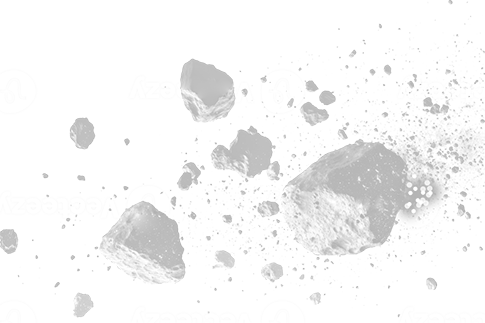
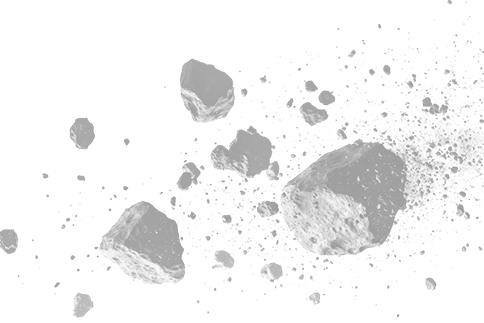
deploy: ypshen17/ypshen17-site-src@a1fc4cde936b20646da295234480ed2f93dab2a8

diff --git a/visions/03-inbetween/index.html b/visions/03-inbetween/index.html
@@ -18,12 +18,12 @@
 <meta property="og:site_name" content="Yipeng Shen" />
 <meta property="og:image" content="https://ypshen17.github.io/assets/visions/3.jpg" />
 <meta property="og:type" content="article" />
-<meta property="article:published_time" content="2025-09-19T13:30:41+00:00" />
+<meta property="article:published_time" content="2025-09-19T14:13:42+00:00" />
 <meta name="twitter:card" content="summary_large_image" />
 <meta property="twitter:image" content="https://ypshen17.github.io/assets/visions/3.jpg" />
 <meta property="twitter:title" content="The Spaces Between" />
 <script type="application/ld+json">
-{"@context":"https://schema.org","@type":"BlogPosting","dateModified":"2025-09-19T13:30:41+00:00","datePublished":"2025-09-19T13:30:41+00:00","description":"Urban spaces are often defined by what they contain. Buildings, roads, streets, and parks create a visible boundary between life and design. But what if we embraced the in-between? The spaces left unoccupied, the fragments of city design that remain undefined — these are the true potential spaces of the future. The gaps between buildings and roads will become the places of belonging, not bound by design but shaped by experience. The spaces between are not voids, but places of endless possibility. They are the spaces where sound meets thought, where humanity meets architecture. They will transform into interactive nodes, where individuals and communities can shape their surroundings, guided by their sensory experiences rather than rigid, predefined boundaries. Could the neglected margins of urban spaces hold the keys to inclusive design? These spaces may be the future heartbeats of a city that no longer divides, but embraces the unbuilt.","headline":"The Spaces Between","image":"https://ypshen17.github.io/assets/visions/3.jpg","mainEntityOfPage":{"@type":"WebPage","@id":"https://ypshen17.github.io/visions/03-inbetween/"},"url":"https://ypshen17.github.io/visions/03-inbetween/"}</script>
+{"@context":"https://schema.org","@type":"BlogPosting","dateModified":"2025-09-19T14:13:42+00:00","datePublished":"2025-09-19T14:13:42+00:00","description":"Urban spaces are often defined by what they contain. Buildings, roads, streets, and parks create a visible boundary between life and design. But what if we embraced the in-between? The spaces left unoccupied, the fragments of city design that remain undefined — these are the true potential spaces of the future. The gaps between buildings and roads will become the places of belonging, not bound by design but shaped by experience. The spaces between are not voids, but places of endless possibility. They are the spaces where sound meets thought, where humanity meets architecture. They will transform into interactive nodes, where individuals and communities can shape their surroundings, guided by their sensory experiences rather than rigid, predefined boundaries. Could the neglected margins of urban spaces hold the keys to inclusive design? These spaces may be the future heartbeats of a city that no longer divides, but embraces the unbuilt.","headline":"The Spaces Between","image":"https://ypshen17.github.io/assets/visions/3.jpg","mainEntityOfPage":{"@type":"WebPage","@id":"https://ypshen17.github.io/visions/03-inbetween/"},"url":"https://ypshen17.github.io/visions/03-inbetween/"}</script>
 <!-- End Jekyll SEO tag -->
 
 

diff --git a/visions/05-movement/index.html b/visions/05-movement/index.html
@@ -18,12 +18,12 @@
 <meta property="og:site_name" content="Yipeng Shen" />
 <meta property="og:image" content="https://ypshen17.github.io/assets/visions/5.jpg" />
 <meta property="og:type" content="article" />
-<meta property="article:published_time" content="2025-09-19T13:30:41+00:00" />
+<meta property="article:published_time" content="2025-09-19T14:13:42+00:00" />
 <meta name="twitter:card" content="summary_large_image" />
 <meta property="twitter:image" content="https://ypshen17.github.io/assets/visions/5.jpg" />
 <meta property="twitter:title" content="The Tides of Movement" />
 <script type="application/ld+json">
-{"@context":"https://schema.org","@type":"BlogPosting","dateModified":"2025-09-19T13:30:41+00:00","datePublished":"2025-09-19T13:30:41+00:00","description":"The city is not a static entity, but a dynamic force — flowing, moving, evolving. Human movement is the lifeblood of the city, but what if the city could move with us? What if urban spaces could adapt in real time, shifting with the rhythm of pedestrian, vehicular, and social flows? This vision imagines a liquid city, where spaces expand and contract depending on human needs, where streets breathe in harmony with the ebb and flow of life. Through sonic interaction, visual mapping, and adaptive architecture, the city will be able to sense and respond to its people, transforming itself to meet their needs. The tides of movement will be the new metric for urban design, as cities shift with their users, constantly reconfiguring to stay alive. How can we design cities that are alive, that move with us, rather than against us? The future city will not just house us, but flow with us, constantly adapting to the rhythm of life.","headline":"The Tides of Movement","image":"https://ypshen17.github.io/assets/visions/5.jpg","mainEntityOfPage":{"@type":"WebPage","@id":"https://ypshen17.github.io/visions/05-movement/"},"url":"https://ypshen17.github.io/visions/05-movement/"}</script>
+{"@context":"https://schema.org","@type":"BlogPosting","dateModified":"2025-09-19T14:13:42+00:00","datePublished":"2025-09-19T14:13:42+00:00","description":"The city is not a static entity, but a dynamic force — flowing, moving, evolving. Human movement is the lifeblood of the city, but what if the city could move with us? What if urban spaces could adapt in real time, shifting with the rhythm of pedestrian, vehicular, and social flows? This vision imagines a liquid city, where spaces expand and contract depending on human needs, where streets breathe in harmony with the ebb and flow of life. Through sonic interaction, visual mapping, and adaptive architecture, the city will be able to sense and respond to its people, transforming itself to meet their needs. The tides of movement will be the new metric for urban design, as cities shift with their users, constantly reconfiguring to stay alive. How can we design cities that are alive, that move with us, rather than against us? The future city will not just house us, but flow with us, constantly adapting to the rhythm of life.","headline":"The Tides of Movement","image":"https://ypshen17.github.io/assets/visions/5.jpg","mainEntityOfPage":{"@type":"WebPage","@id":"https://ypshen17.github.io/visions/05-movement/"},"url":"https://ypshen17.github.io/visions/05-movement/"}</script>
 <!-- End Jekyll SEO tag -->
 
 

diff --git a/visions/02-ground/index.html b/visions/02-ground/index.html
@@ -18,12 +18,12 @@
 <meta property="og:site_name" content="Yipeng Shen" />
 <meta property="og:image" content="https://ypshen17.github.io/assets/visions/2.jpg" />
 <meta property="og:type" content="article" />
-<meta property="article:published_time" content="2025-09-19T13:30:41+00:00" />
+<meta property="article:published_time" content="2025-09-19T14:13:42+00:00" />
 <meta name="twitter:card" content="summary_large_image" />
 <meta property="twitter:image" content="https://ypshen17.github.io/assets/visions/2.jpg" />
 <meta property="twitter:title" content="The Echoes of Silence" />
 <script type="application/ld+json">
-{"@context":"https://schema.org","@type":"BlogPosting","dateModified":"2025-09-19T13:30:41+00:00","datePublished":"2025-09-19T13:30:41+00:00","description":"The ground beneath our feet is more than just earth. It is a repository of stories, an echo of centuries of forgotten lives. As the city grows taller, its roots dig deeper, not into concrete foundations, but into the heartbeats of the land. To design the future of urban spaces is to reimagine the verticality of life — not upward, but downward. This vision seeks a reversal: instead of rising towards the sky, we dig into the depths of our urban environments. Subterranean worlds will be reconnected to the living above. Underground spaces, woven with natural and cultural histories, will shape the future cities we build. Soundscapes will emanate from the ground up — a reminder that the city has a soul buried within it. What if the earth beneath the city could speak? What if the city, instead of rising, listened? In this reimagined future, urbanism will grow downward and inward — where history is not lost, but retrieved.","headline":"The Echoes of Silence","image":"https://ypshen17.github.io/assets/visions/2.jpg","mainEntityOfPage":{"@type":"WebPage","@id":"https://ypshen17.github.io/visions/02-ground/"},"url":"https://ypshen17.github.io/visions/02-ground/"}</script>
+{"@context":"https://schema.org","@type":"BlogPosting","dateModified":"2025-09-19T14:13:42+00:00","datePublished":"2025-09-19T14:13:42+00:00","description":"The ground beneath our feet is more than just earth. It is a repository of stories, an echo of centuries of forgotten lives. As the city grows taller, its roots dig deeper, not into concrete foundations, but into the heartbeats of the land. To design the future of urban spaces is to reimagine the verticality of life — not upward, but downward. This vision seeks a reversal: instead of rising towards the sky, we dig into the depths of our urban environments. Subterranean worlds will be reconnected to the living above. Underground spaces, woven with natural and cultural histories, will shape the future cities we build. Soundscapes will emanate from the ground up — a reminder that the city has a soul buried within it. What if the earth beneath the city could speak? What if the city, instead of rising, listened? In this reimagined future, urbanism will grow downward and inward — where history is not lost, but retrieved.","headline":"The Echoes of Silence","image":"https://ypshen17.github.io/assets/visions/2.jpg","mainEntityOfPage":{"@type":"WebPage","@id":"https://ypshen17.github.io/visions/02-ground/"},"url":"https://ypshen17.github.io/visions/02-ground/"}</script>
 <!-- End Jekyll SEO tag -->
 
 

diff --git a/visions/04-memory/index.html b/visions/04-memory/index.html
@@ -18,12 +18,12 @@
 <meta property="og:site_name" content="Yipeng Shen" />
 <meta property="og:image" content="https://ypshen17.github.io/assets/visions/4.jpg" />
 <meta property="og:type" content="article" />
-<meta property="article:published_time" content="2025-09-19T13:30:41+00:00" />
+<meta property="article:published_time" content="2025-09-19T14:13:42+00:00" />
 <meta name="twitter:card" content="summary_large_image" />
 <meta property="twitter:image" content="https://ypshen17.github.io/assets/visions/4.jpg" />
 <meta property="twitter:title" content="The Sound of Memory" />
 <script type="application/ld+json">
-{"@context":"https://schema.org","@type":"BlogPosting","dateModified":"2025-09-19T13:30:41+00:00","datePublished":"2025-09-19T13:30:41+00:00","description":"Every city has a history that cannot be seen — only heard. The urban soundscape carries the memories of its people — whispered conversations, the clatter of construction, the distant echoes of a long-gone past. But in the modern city, we have erased much of this sound. The noise of progress has drowned out the voices of memory. In the future, cities will remember through sound. Each public space will be designed to hold sonic memories, where the past reverberates through the urban landscape. Sound libraries, archives of the forgotten, will fill the air with the voices of history, ensuring that the urban narrative is felt, not just seen. Sound-design tools will bring a future that listens. How does a city remember? What does a city speak, if its history is lost? In the sound of memory, the city will find its voice again — not just in visual spaces, but in sonic archives that echo across generations.","headline":"The Sound of Memory","image":"https://ypshen17.github.io/assets/visions/4.jpg","mainEntityOfPage":{"@type":"WebPage","@id":"https://ypshen17.github.io/visions/04-memory/"},"url":"https://ypshen17.github.io/visions/04-memory/"}</script>
+{"@context":"https://schema.org","@type":"BlogPosting","dateModified":"2025-09-19T14:13:42+00:00","datePublished":"2025-09-19T14:13:42+00:00","description":"Every city has a history that cannot be seen — only heard. The urban soundscape carries the memories of its people — whispered conversations, the clatter of construction, the distant echoes of a long-gone past. But in the modern city, we have erased much of this sound. The noise of progress has drowned out the voices of memory. In the future, cities will remember through sound. Each public space will be designed to hold sonic memories, where the past reverberates through the urban landscape. Sound libraries, archives of the forgotten, will fill the air with the voices of history, ensuring that the urban narrative is felt, not just seen. Sound-design tools will bring a future that listens. How does a city remember? What does a city speak, if its history is lost? In the sound of memory, the city will find its voice again — not just in visual spaces, but in sonic archives that echo across generations.","headline":"The Sound of Memory","image":"https://ypshen17.github.io/assets/visions/4.jpg","mainEntityOfPage":{"@type":"WebPage","@id":"https://ypshen17.github.io/visions/04-memory/"},"url":"https://ypshen17.github.io/visions/04-memory/"}</script>
 <!-- End Jekyll SEO tag -->
 
 

diff --git a/visions/01-echo/index.html b/visions/01-echo/index.html
@@ -18,12 +18,12 @@
 <meta property="og:site_name" content="Yipeng Shen" />
 <meta property="og:image" content="https://ypshen17.github.io/assets/visions/1.jpg" />
 <meta property="og:type" content="article" />
-<meta property="article:published_time" content="2025-09-19T13:30:41+00:00" />
+<meta property="article:published_time" content="2025-09-19T14:13:42+00:00" />
 <meta name="twitter:card" content="summary_large_image" />
 <meta property="twitter:image" content="https://ypshen17.github.io/assets/visions/1.jpg" />
 <meta property="twitter:title" content="The Echoes of Silence" />
 <script type="application/ld+json">
-{"@context":"https://schema.org","@type":"BlogPosting","dateModified":"2025-09-19T13:30:41+00:00","datePublished":"2025-09-19T13:30:41+00:00","description":"In the fragmented hum of modern cities, there lies an unnoticed silence. It is not the absence of sound, but the absence of presence. The urban pulse, embedded in the structures, only asks to be heard through fragmented frequencies, lost in the chaos of design. We stand at the edge of a new form of listening: The silence that is heard. This is a call for cities where sound and silence are not opposites, but intertwined. Where the void speaks, and the noise listens. In this sonic landscape, spaces will be designed to breathe with the rhythms of forgotten pasts and uncertain futures. Public spaces will become soundscapes, composed not just of human voices, but of the city’s pulse, its memory, its forgotten whispers. Can silence itself be a tool of urban inclusion? Can the absence of sound be reimagined as a voice that speaks to those silenced by the dominant noise of urbanization?","headline":"The Echoes of Silence","image":"https://ypshen17.github.io/assets/visions/1.jpg","mainEntityOfPage":{"@type":"WebPage","@id":"https://ypshen17.github.io/visions/01-echo/"},"url":"https://ypshen17.github.io/visions/01-echo/"}</script>
+{"@context":"https://schema.org","@type":"BlogPosting","dateModified":"2025-09-19T14:13:42+00:00","datePublished":"2025-09-19T14:13:42+00:00","description":"In the fragmented hum of modern cities, there lies an unnoticed silence. It is not the absence of sound, but the absence of presence. The urban pulse, embedded in the structures, only asks to be heard through fragmented frequencies, lost in the chaos of design. We stand at the edge of a new form of listening: The silence that is heard. This is a call for cities where sound and silence are not opposites, but intertwined. Where the void speaks, and the noise listens. In this sonic landscape, spaces will be designed to breathe with the rhythms of forgotten pasts and uncertain futures. Public spaces will become soundscapes, composed not just of human voices, but of the city’s pulse, its memory, its forgotten whispers. Can silence itself be a tool of urban inclusion? Can the absence of sound be reimagined as a voice that speaks to those silenced by the dominant noise of urbanization?","headline":"The Echoes of Silence","image":"https://ypshen17.github.io/assets/visions/1.jpg","mainEntityOfPage":{"@type":"WebPage","@id":"https://ypshen17.github.io/visions/01-echo/"},"url":"https://ypshen17.github.io/visions/01-echo/"}</script>
 <!-- End Jekyll SEO tag -->
 
 

diff --git a/projects/01-sonic-urbanism/index.html b/projects/01-sonic-urbanism/index.html
@@ -17,11 +17,11 @@
 <meta property="og:url" content="https://ypshen17.github.io/projects/01-sonic-urbanism/" />
 <meta property="og:site_name" content="Yipeng Shen" />
 <meta property="og:type" content="article" />
-<meta property="article:published_time" content="2025-09-19T13:30:41+00:00" />
+<meta property="article:published_time" content="2025-09-19T14:13:42+00:00" />
 <meta name="twitter:card" content="summary" />
 <meta property="twitter:title" content="A Sonic Urbanism Passeggiata" />
 <script type="application/ld+json">
-{"@context":"https://schema.org","@type":"BlogPosting","dateModified":"2025-09-19T13:30:41+00:00","datePublished":"2025-09-19T13:30:41+00:00","description":"Thesis project applying the Listening–Scoring–Performing method to Milan’s South-East Axis. Focus on sonification, public space design, and node interventions at Piazza Missori and Piazzale Rogoredo. Recognised with 110L/110 cum laude and Excellent Thesis Award.","headline":"A Sonic Urbanism Passeggiata","mainEntityOfPage":{"@type":"WebPage","@id":"https://ypshen17.github.io/projects/01-sonic-urbanism/"},"url":"https://ypshen17.github.io/projects/01-sonic-urbanism/"}</script>
+{"@context":"https://schema.org","@type":"BlogPosting","dateModified":"2025-09-19T14:13:42+00:00","datePublished":"2025-09-19T14:13:42+00:00","description":"Thesis project applying the Listening–Scoring–Performing method to Milan’s South-East Axis. Focus on sonification, public space design, and node interventions at Piazza Missori and Piazzale Rogoredo. Recognised with 110L/110 cum laude and Excellent Thesis Award.","headline":"A Sonic Urbanism Passeggiata","mainEntityOfPage":{"@type":"WebPage","@id":"https://ypshen17.github.io/projects/01-sonic-urbanism/"},"url":"https://ypshen17.github.io/projects/01-sonic-urbanism/"}</script>
 <!-- End Jekyll SEO tag -->
 
 

diff --git a/assets/gsap.js b/assets/gsap.js
@@ -110,8 +110,6 @@ document.addEventListener("DOMContentLoaded", () => {
     alignStage2();
 
     const slots = Array.from(compositionContainer.querySelectorAll(".slot"));
-    const compBox = compositionContainer.getBoundingClientRect();
-    const scatterBox = scatterContainer.getBoundingClientRect();
 
     const tl = gsap.timeline({ defaults: { ease: "power3.inOut" } });
 
@@ -119,18 +117,26 @@ document.addEventListener("DOMContentLoaded", () => {
     scatterLetters.forEach((scatter, i) => {
       const slotIndex = i % WORD.length;
       const targetBox = slots[slotIndex].getBoundingClientRect();
+      const scatterBox = scatter.getBoundingClientRect();
 
-      // relative coords (scatter container space)
-      const targetX = targetBox.left - scatterBox.left;
-      const targetY = targetBox.top - scatterBox.top;
+      // centers
+      const targetX = targetBox.left + targetBox.width / 2;
+      const targetY = targetBox.top + targetBox.height / 2;
+      const currentX = scatterBox.left + scatterBox.width / 2;
+      const currentY = scatterBox.top + scatterBox.height / 2;
+
+      // delta (viewport-based movement)
+      const dx = targetX - currentX;
+      const dy = targetY - currentY;
 
       tl.to(scatter, {
-        x: targetX,
-        y: targetY,
+        x: "+=" + dx,
+        y: "+=" + dy,
         fontSize: "6rem",
         opacity: 1,
-        duration: 1.2
-      }, i * 0.02); // staggered arrival
+        duration: 1.2,
+        delay: i * 0.02
+      }, 0);
     });
 
     // fade in stage2 and nav
@@ -153,7 +159,6 @@ document.addEventListener("DOMContentLoaded", () => {
     });
   });
 });
-
 
 
 

diff --git a/projects/02-old-stage/index.html b/projects/02-old-stage/index.html
@@ -17,11 +17,11 @@
 <meta property="og:url" content="https://ypshen17.github.io/projects/02-old-stage/" />
 <meta property="og:site_name" content="Yipeng Shen" />
 <meta property="og:type" content="article" />
-<meta property="article:published_time" content="2025-09-19T13:30:41+00:00" />
+<meta property="article:published_time" content="2025-09-19T14:13:42+00:00" />
 <meta name="twitter:card" content="summary" />
 <meta property="twitter:title" content="Old Stage for New Life" />
 <script type="application/ld+json">
-{"@context":"https://schema.org","@type":"BlogPosting","dateModified":"2025-09-19T13:30:41+00:00","datePublished":"2025-09-19T13:30:41+00:00","description":"Urban regeneration of Meda’s historic centre, reactivating abandoned ruins into cultural and public spaces. Collaboration with Yichuan Guo, supervised by Prof. Pezzetti and team.","headline":"Old Stage for New Life","mainEntityOfPage":{"@type":"WebPage","@id":"https://ypshen17.github.io/projects/02-old-stage/"},"url":"https://ypshen17.github.io/projects/02-old-stage/"}</script>
+{"@context":"https://schema.org","@type":"BlogPosting","dateModified":"2025-09-19T14:13:42+00:00","datePublished":"2025-09-19T14:13:42+00:00","description":"Urban regeneration of Meda’s historic centre, reactivating abandoned ruins into cultural and public spaces. Collaboration with Yichuan Guo, supervised by Prof. Pezzetti and team.","headline":"Old Stage for New Life","mainEntityOfPage":{"@type":"WebPage","@id":"https://ypshen17.github.io/projects/02-old-stage/"},"url":"https://ypshen17.github.io/projects/02-old-stage/"}</script>
 <!-- End Jekyll SEO tag -->
 
 

diff --git a/projects/04-commusication/index.html b/projects/04-commusication/index.html
@@ -17,11 +17,11 @@
 <meta property="og:url" content="https://ypshen17.github.io/projects/04-commusication/" />
 <meta property="og:site_name" content="Yipeng Shen" />
 <meta property="og:type" content="article" />
-<meta property="article:published_time" content="2025-09-19T13:30:41+00:00" />
+<meta property="article:published_time" content="2025-09-19T14:13:42+00:00" />
 <meta name="twitter:card" content="summary" />
 <meta property="twitter:title" content="COMMUSICATION" />
 <script type="application/ld+json">
-{"@context":"https://schema.org","@type":"BlogPosting","dateModified":"2025-09-19T13:30:41+00:00","datePublished":"2025-09-19T13:30:41+00:00","description":"Bachelor’s thesis exploring Sonic Urbanism strategies for Xining’s West Gate–Grand Cross. Proposed musical complex and design guidelines based on sonification and scoring.","headline":"COMMUSICATION","mainEntityOfPage":{"@type":"WebPage","@id":"https://ypshen17.github.io/projects/04-commusication/"},"url":"https://ypshen17.github.io/projects/04-commusication/"}</script>
+{"@context":"https://schema.org","@type":"BlogPosting","dateModified":"2025-09-19T14:13:42+00:00","datePublished":"2025-09-19T14:13:42+00:00","description":"Bachelor’s thesis exploring Sonic Urbanism strategies for Xining’s West Gate–Grand Cross. Proposed musical complex and design guidelines based on sonification and scoring.","headline":"COMMUSICATION","mainEntityOfPage":{"@type":"WebPage","@id":"https://ypshen17.github.io/projects/04-commusication/"},"url":"https://ypshen17.github.io/projects/04-commusication/"}</script>
 <!-- End Jekyll SEO tag -->
 
 

diff --git a/projects/10-musical-cities/index.html b/projects/10-musical-cities/index.html
@@ -17,11 +17,11 @@
 <meta property="og:url" content="https://ypshen17.github.io/projects/10-musical-cities/" />
 <meta property="og:site_name" content="Yipeng Shen" />
 <meta property="og:type" content="article" />
-<meta property="article:published_time" content="2025-09-19T13:30:41+00:00" />
+<meta property="article:published_time" content="2025-09-19T14:13:42+00:00" />
 <meta name="twitter:card" content="summary" />
 <meta property="twitter:title" content="A Study on Sara Adhitya’s Musical Cities" />
 <script type="application/ld+json">
-{"@context":"https://schema.org","@type":"BlogPosting","dateModified":"2025-09-19T13:30:41+00:00","datePublished":"2025-09-19T13:30:41+00:00","description":"Academic review article (with Prof. Zhu) on Sara Adhitya’s book Musical Cities. Published in Urban Design (2022).","headline":"A Study on Sara Adhitya’s Musical Cities","mainEntityOfPage":{"@type":"WebPage","@id":"https://ypshen17.github.io/projects/10-musical-cities/"},"url":"https://ypshen17.github.io/projects/10-musical-cities/"}</script>
+{"@context":"https://schema.org","@type":"BlogPosting","dateModified":"2025-09-19T14:13:42+00:00","datePublished":"2025-09-19T14:13:42+00:00","description":"Academic review article (with Prof. Zhu) on Sara Adhitya’s book Musical Cities. Published in Urban Design (2022).","headline":"A Study on Sara Adhitya’s Musical Cities","mainEntityOfPage":{"@type":"WebPage","@id":"https://ypshen17.github.io/projects/10-musical-cities/"},"url":"https://ypshen17.github.io/projects/10-musical-cities/"}</script>
 <!-- End Jekyll SEO tag -->
 
 

diff --git a/projects/09-nuovi-porti/index.html b/projects/09-nuovi-porti/index.html
@@ -17,11 +17,11 @@
 <meta property="og:url" content="https://ypshen17.github.io/projects/09-nuovi-porti/" />
 <meta property="og:site_name" content="Yipeng Shen" />
 <meta property="og:type" content="article" />
-<meta property="article:published_time" content="2025-09-19T13:30:41+00:00" />
+<meta property="article:published_time" content="2025-09-19T14:13:42+00:00" />
 <meta name="twitter:card" content="summary" />
 <meta property="twitter:title" content="Nuovi Porti per Nuova Portualità" />
 <script type="application/ld+json">
-{"@context":"https://schema.org","@type":"BlogPosting","dateModified":"2025-09-19T13:30:41+00:00","datePublished":"2025-09-19T13:30:41+00:00","description":"Workshop exploring future port activities and adaptive reuse in Trapani. Produced public space strategies and waterfront regeneration.","headline":"Nuovi Porti per Nuova Portualità","mainEntityOfPage":{"@type":"WebPage","@id":"https://ypshen17.github.io/projects/09-nuovi-porti/"},"url":"https://ypshen17.github.io/projects/09-nuovi-porti/"}</script>
+{"@context":"https://schema.org","@type":"BlogPosting","dateModified":"2025-09-19T14:13:42+00:00","datePublished":"2025-09-19T14:13:42+00:00","description":"Workshop exploring future port activities and adaptive reuse in Trapani. Produced public space strategies and waterfront regeneration.","headline":"Nuovi Porti per Nuova Portualità","mainEntityOfPage":{"@type":"WebPage","@id":"https://ypshen17.github.io/projects/09-nuovi-porti/"},"url":"https://ypshen17.github.io/projects/09-nuovi-porti/"}</script>
 <!-- End Jekyll SEO tag -->
 
 

diff --git a/projects/11-miyisuo/index.html b/projects/11-miyisuo/index.html
@@ -17,11 +17,11 @@
 <meta property="og:url" content="https://ypshen17.github.io/projects/11-miyisuo/" />
 <meta property="og:site_name" content="Yipeng Shen" />
 <meta property="og:type" content="article" />
-<meta property="article:published_time" content="2025-09-19T13:30:41+00:00" />
+<meta property="article:published_time" content="2025-09-19T14:13:42+00:00" />
 <meta name="twitter:card" content="summary" />
 <meta property="twitter:title" content="MiYiSuo Short Articles" />
 <script type="application/ld+json">
-{"@context":"https://schema.org","@type":"BlogPosting","dateModified":"2025-09-19T13:30:41+00:00","datePublished":"2025-09-19T13:30:41+00:00","description":"Fifteen short articles in MiYiSuo Column (Urban Design Journal). Topics: rural revitalisation, micro-renovations, spontaneous public spaces.","headline":"MiYiSuo Short Articles","mainEntityOfPage":{"@type":"WebPage","@id":"https://ypshen17.github.io/projects/11-miyisuo/"},"url":"https://ypshen17.github.io/projects/11-miyisuo/"}</script>
+{"@context":"https://schema.org","@type":"BlogPosting","dateModified":"2025-09-19T14:13:42+00:00","datePublished":"2025-09-19T14:13:42+00:00","description":"Fifteen short articles in MiYiSuo Column (Urban Design Journal). Topics: rural revitalisation, micro-renovations, spontaneous public spaces.","headline":"MiYiSuo Short Articles","mainEntityOfPage":{"@type":"WebPage","@id":"https://ypshen17.github.io/projects/11-miyisuo/"},"url":"https://ypshen17.github.io/projects/11-miyisuo/"}</script>
 <!-- End Jekyll SEO tag -->
 
 
